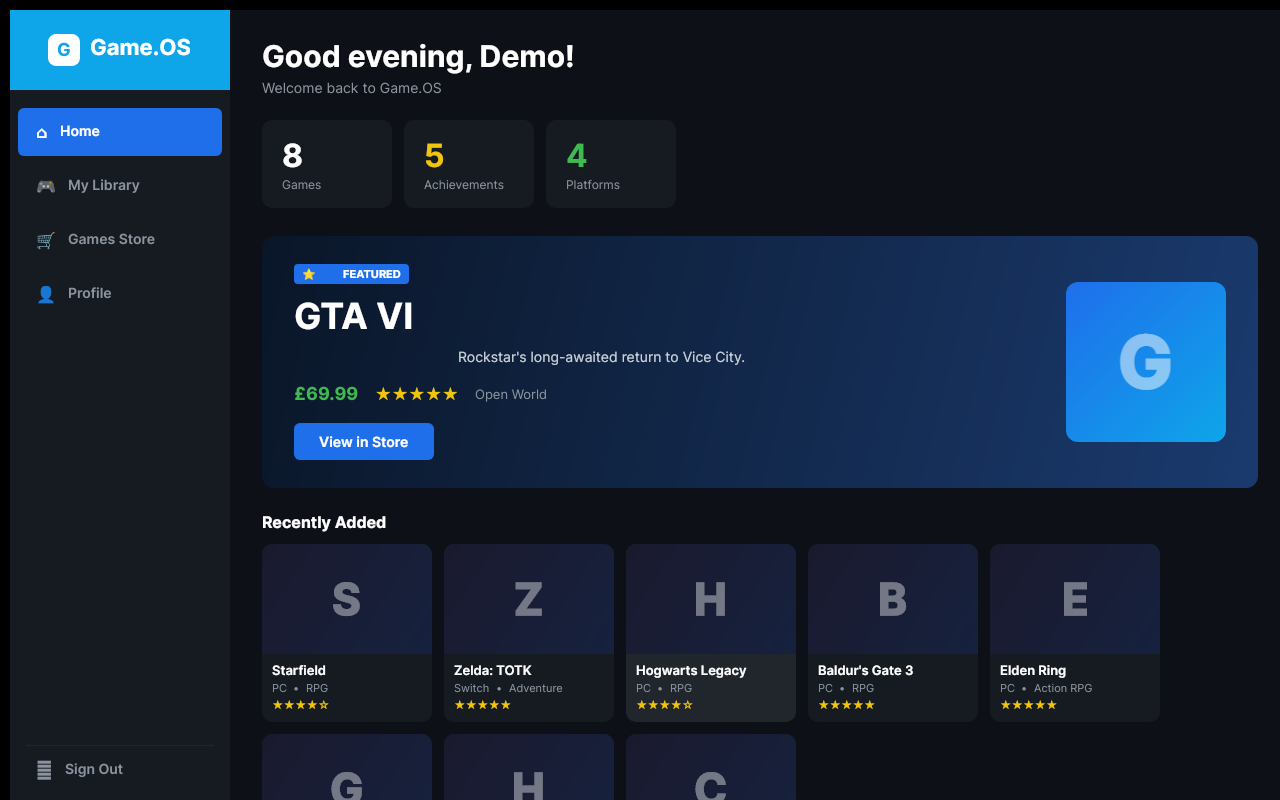
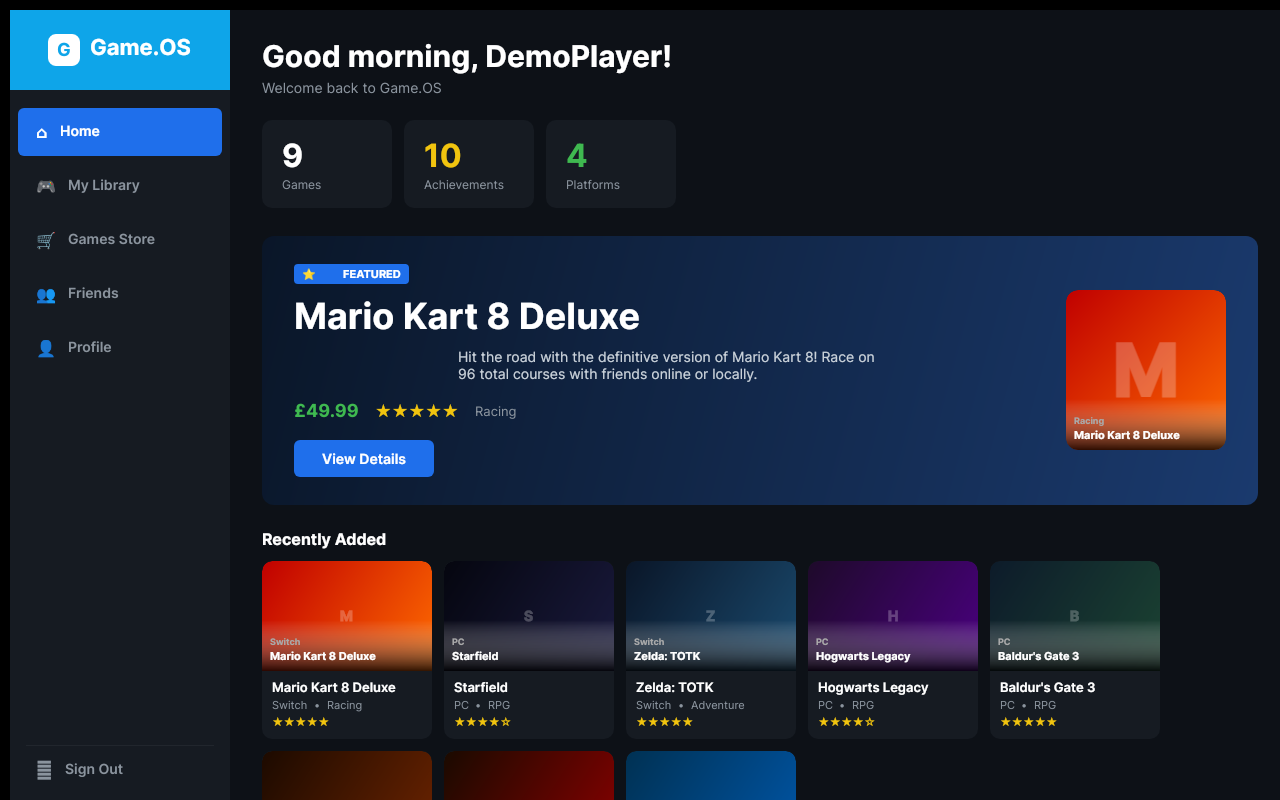
feat: Demo Mode button + per-page screenshots + updated README

diff --git a/GameLauncher/ViewModels/LoginViewModel.cs b/GameLauncher/ViewModels/LoginViewModel.cs
@@ -183,6 +183,56 @@ public partial class LoginViewModel : ViewModelBase
     private void ToggleForm() => ShowRegister = !ShowRegister;
 
     /// <summary>
+    /// Demo mode — loads the full launcher with rich sample data without
+    /// needing a backend server or an account.  Shows every page exactly
+    /// as it appears when logged in.
+    /// </summary>
+    [RelayCommand]
+    private void DemoLogin()
+    {
+        var profile = new UserProfile
+        {
+            Username  = "DemoPlayer",
+            Email     = "demo@gameos.example.com",
+            CreatedAt = "2024-06-15T10:00:00Z",
+        };
+
+        // Use all DemoData library entries as the player's library
+        var games = DemoData.Library
+            .Select(g => new Game
+            {
+                Platform    = g.Platform,
+                Title       = g.Title,
+                TitleId     = g.TitleId,
+                CoverUrl    = g.CoverUrl,
+                Screenshots = g.Screenshots,
+                AddedAt     = g.AddedAt,
+                Genre       = g.Genre,
+                Description = g.Description,
+                Rating      = g.Rating,
+                CoverColor  = g.CoverColor,
+                CoverGradient = g.CoverGradient,
+            })
+            .ToList();
+
+        var achievements = new List<Achievement>
+        {
+            new() { Platform = "Switch", GameTitle = "Mario Kart 8 Deluxe",  AchievementId = "mk8_1",  Name = "Speed Racer",        Description = "Win your first online race.",             UnlockedAt = "2025-06-02T18:00:00Z" },
+            new() { Platform = "Switch", GameTitle = "Mario Kart 8 Deluxe",  AchievementId = "mk8_2",  Name = "All Cups Gold",      Description = "Win every cup on 150cc.",                 UnlockedAt = "2025-06-10T20:30:00Z" },
+            new() { Platform = "Switch", GameTitle = "Zelda: TOTK",          AchievementId = "totk_1", Name = "Sky Explorer",       Description = "Reach the highest sky island.",           UnlockedAt = "2025-04-20T14:00:00Z" },
+            new() { Platform = "PC",     GameTitle = "Cyberpunk 2077",        AchievementId = "cp_1",   Name = "Night City Legend",  Description = "Complete the main story.",                UnlockedAt = "2025-01-15T22:00:00Z" },
+            new() { Platform = "PC",     GameTitle = "Elden Ring",            AchievementId = "er_1",   Name = "Elden Lord",         Description = "Achieve the Elden Lord ending.",          UnlockedAt = "2025-02-28T21:00:00Z" },
+            new() { Platform = "PC",     GameTitle = "Baldur's Gate 3",       AchievementId = "bg3_1",  Name = "Honour Among Thieves",Description = "Complete the game on Honour Mode.",     UnlockedAt = "2025-03-10T19:00:00Z" },
+            new() { Platform = "Xbox",   GameTitle = "Halo Infinite",         AchievementId = "hi_1",   Name = "Demon",              Description = "Complete the campaign on Legendary.",     UnlockedAt = "2025-01-25T16:00:00Z" },
+            new() { Platform = "PS5",    GameTitle = "God of War Ragnarök",   AchievementId = "gow_1",  Name = "Ragnarök Survivor",  Description = "Defeat Odin.",                            UnlockedAt = "2025-02-08T20:00:00Z" },
+            new() { Platform = "PC",     GameTitle = "Hogwarts Legacy",       AchievementId = "hl_1",   Name = "Legend of Hogwarts", Description = "Discover all ancient magic secrets.",    UnlockedAt = "2025-04-05T17:00:00Z" },
+            new() { Platform = "PC",     GameTitle = "Starfield",             AchievementId = "sf_1",   Name = "Into the Starfield", Description = "Join Constellation.",                     UnlockedAt = "2025-05-12T11:00:00Z" },
+        };
+
+        OnLoginSuccess?.Invoke(profile, games, achievements);
+    }
+
+    /// <summary>
     /// Quick-login — if the saved session has a token, restore it silently.
     /// Otherwise pre-fill the username field so the user just needs to type
     /// the password (same UX as the web's single-session model).

diff --git a/GameLauncher/ViewModels/MainViewModel.cs b/GameLauncher/ViewModels/MainViewModel.cs
@@ -1,5 +1,6 @@
 using System;
 using System.Collections.Generic;
+using System.Linq;
 using CommunityToolkit.Mvvm.ComponentModel;
 using CommunityToolkit.Mvvm.Input;
 using GameLauncher.Models;
@@ -83,7 +84,22 @@ public partial class MainViewModel : ViewModelBase, IDisposable
 
         // Attempt silent auto-login from cached session (mirrors web localStorage restore)
         _ = LoginVm.TryAutoLoginAsync();
+
+        // GAMEOS_DEMO_PAGE env var: auto-trigger demo mode and navigate to the given page.
+        // Used for headless screenshot capture without needing a backend server.
+        // Example: GAMEOS_DEMO_PAGE=dashboard, library, store, friends, profile, gamedetail
+        var demoPage = Environment.GetEnvironmentVariable("GAMEOS_DEMO_PAGE");
+        if (!string.IsNullOrEmpty(demoPage))
+        {
+            // Set target page BEFORE Execute so OnLoginSuccess can read it
+            _demoTargetPage = demoPage.ToLowerInvariant();
+            Avalonia.Threading.Dispatcher.UIThread.Post(
+                () => LoginVm.DemoLoginCommand.Execute(null),
+                Avalonia.Threading.DispatcherPriority.Loaded);
+        }
     }
+
+    private string? _demoTargetPage;
 
     private void OnLoginSuccess(UserProfile profile, List<Game> library,
                                 List<Achievement> achievements)
@@ -102,7 +118,31 @@ public partial class MainViewModel : ViewModelBase, IDisposable
 
         ShowLogin = false;
         ShowMain  = true;
-        ActivePage = "dashboard";
+
+        // Navigate to the page requested by GAMEOS_DEMO_PAGE (for screenshots)
+        if (!string.IsNullOrEmpty(_demoTargetPage) && _demoTargetPage != "dashboard")
+        {
+            ActivePage = _demoTargetPage;
+            // For game detail, open the first library game
+            if (_demoTargetPage == "gamedetail")
+            {
+                // Find Elden Ring by title for the detail screenshot, fall back to first game
+                var detailGame = library.FirstOrDefault(g =>
+                    g.Title.Contains("Elden", StringComparison.OrdinalIgnoreCase))
+                    ?? (library.Count > 0 ? library[0] : null);
+
+                if (detailGame != null)
+                {
+                    Avalonia.Threading.Dispatcher.UIThread.Post(() =>
+                        OpenDetailFromGame(detailGame),
+                        Avalonia.Threading.DispatcherPriority.Background);
+                }
+            }
+        }
+        else
+        {
+            ActivePage = "dashboard";
+        }
     }
 
     [RelayCommand]

diff --git a/GameLauncher/README.md b/GameLauncher/README.md
@@ -9,17 +9,23 @@ Built with **.NET 8** + [Avalonia UI](https://avaloniaui.net/) (cross-platform W
 
 ## Screenshots
 
-| Login | Dashboard |
+> All screenshots taken from the live launcher in **Demo Mode** — no backend required.
+
+| 🔐 Login | 🏠 Dashboard |
 |---|---|
 | ![Login](../Design/Screenshots/screenshot_login.png) | ![Dashboard](../Design/Screenshots/screenshot_dashboard.png) |
 
-| My Library | Games Store |
+| 🎮 My Library | 🛒 Games Store |
 |---|---|
 | ![Library](../Design/Screenshots/screenshot_library.png) | ![Store](../Design/Screenshots/screenshot_store.png) |
 
-| Local Game Detection | Profile |
+| 🎯 Game Details | 👤 Profile |
 |---|---|
-| ![Detected on Drive](../Design/Screenshots/screenshot_library_detected.png) | ![Profile](../Design/Screenshots/screenshot_profile.png) |
+| ![Game Detail](../Design/Screenshots/screenshot_gamedetail.png) | ![Profile](../Design/Screenshots/screenshot_profile.png) |
+
+| 👥 Friends | 🔍 Local Game Detection |
+|---|---|
+| ![Friends](../Design/Screenshots/screenshot_friends.png) | ![Detected on Drive](../Design/Screenshots/screenshot_library_detected.png) |
 
 ---
 
@@ -27,11 +33,14 @@ Built with **.NET 8** + [Avalonia UI](https://avaloniaui.net/) (cross-platform W
 
 | Screen | What it does |
 |---|---|
-| 🔐 **Login / Register** | Dark-themed sign-in form; create a new account via the same backend API |
-| 🏠 **Dashboard / Home** | Stats tiles, featured game hero banner, game card grid, recent achievements |
-| 🎮 **My Library** | Game cover cards, platform filter chips, search, star ratings |
-| 🛒 **Games Store** | Featured titles carousel, browse all, genre filter, search, add to library |
-| 👤 **Profile** | Avatar, stats, all achievements list, LIVE / ADMIN badge |
+| 🔐 **Login / Register** | Dark-themed sign-in form; **Remember me** caches your session token between launches (same as the website) |
+| 🚀 **Demo Mode** | Click *Try Demo Mode* on the login screen to explore every page instantly — no backend or account needed |
+| 🏠 **Dashboard / Home** | Stats tiles, featured game hero banner, recently-added game cards, recent achievements |
+| 🎮 **My Library** | Game cover cards loaded from the cloud, platform filter chips, search bar, star ratings |
+| 🎯 **Game Details** | Full-screen overlay with cover art, description, rating, screenshots carousel, play button |
+| 🛒 **Games Store** | Featured titles carousel, browse all, genre filter, search, one-click add to library |
+| 👥 **Friends** | Live friend list with online/away/offline presence, pending friend requests |
+| 👤 **Profile** | Avatar, stats, full achievements list, LIVE / ADMIN badge |
 | 🛡 **Admin Mode** | When logged in as `Admin.GameOS`, a catalog management panel appears in the store |
 
 ---
@@ -40,7 +49,17 @@ Built with **.NET 8** + [Avalonia UI](https://avaloniaui.net/) (cross-platform W
 
 ### Prerequisites
 - [.NET 8 SDK](https://dotnet.microsoft.com/download) or later
-- The **Game.OS backend** running (see below)
+- The **Game.OS backend** running (see below), **or** use Demo Mode (no backend needed)
+
+### Demo Mode — no account required
+
+Click **🚀 Try Demo Mode** on the login screen to instantly explore every page with rich sample data — no backend server, no account needed.
+
+```bash
+cd GameLauncher
+dotnet run -c Release
+# → click "Try Demo Mode" on the login screen
+```
 
 ### Configuration
 
@@ -50,7 +69,7 @@ The launcher reads one environment variable:
 |---|---|---|
 | `GAMEOS_API_BASEURL` | `http://localhost:3000` | Base URL of the Game.OS backend API |
 
-### Run the launcher
+### Run the launcher with a real account
 
 ```bash
 # Start the backend first (from the backend/ directory)
